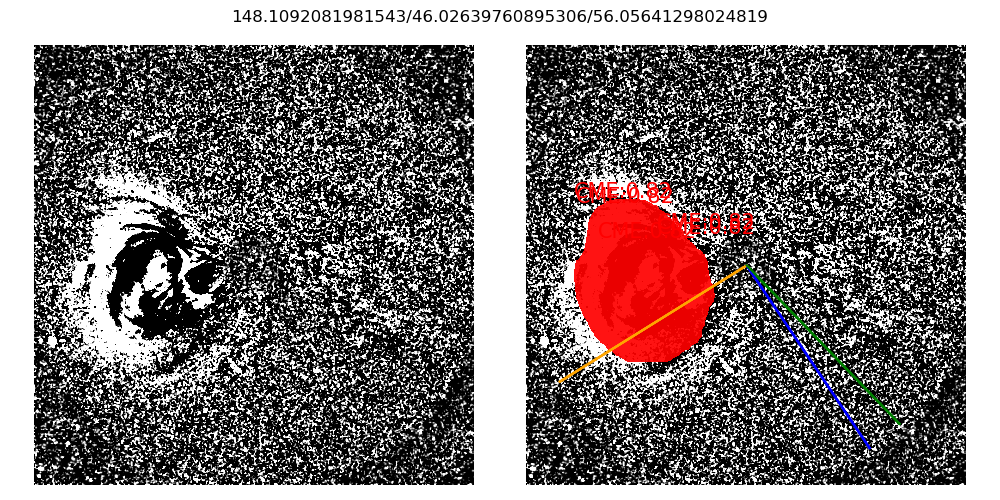
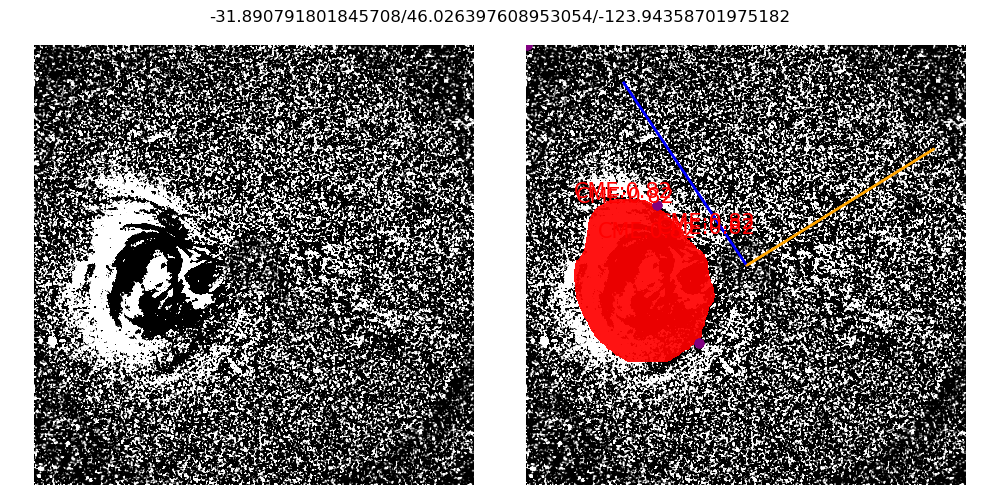
updated not working, the angles are not correct

diff --git a/nn/neural_cme_seg/applications/neural_cme_seg_kincat_stats.py b/nn/neural_cme_seg/applications/neural_cme_seg_kincat_stats.py
@@ -10,7 +10,7 @@ def read_fits(file_path,smooth_kernel=[0,0]):
         #img = gaussian_filter(img, sigma=smooth_kernel)
 
         # if smooth_kernel[0]!=0 and smooth_kernel[1]!=0: 
-        img = rebin(img, imageSize,operation='mean')
+        img = imrebin(img, imageSize,operation='mean')
         
         return img  
     except:
@@ -25,6 +25,7 @@ def rec2pol(mask,scores,labels,boxes,imsize):
     nans = np.full(imsize, np.nan)
     try:
         if boxes is not None:
+            nb=0
             for b in boxes:
                 if scores is not None:
                     scr = scores[0]
@@ -32,7 +33,7 @@ def rec2pol(mask,scores,labels,boxes,imsize):
                     scr = 0   
                 if scr > scr_threshold:             
                     masked = nans.copy()
-                    masked[:, :][mask[0] > mask_threshold] = 0
+                    masked[:, :][mask[nb] > mask_threshold] = nb   
                     
 
                     height, width = masked.shape
@@ -45,14 +46,16 @@ def rec2pol(mask,scores,labels,boxes,imsize):
                         for y in range(height):
                             value=masked[x,y]
                             if not np.isnan(value):
-                                pts.append([x,y])
-                                x_dist = (center_x-x)
-                                y_dist = (center_y-y)
+                                #breakpoint()
+                                pts.append([y,x])#the coordinates are written in the format (y,x)
+                                x_dist = (x-center_x)
+                                y_dist = (y-center_y)
                                 distance= math.sqrt(x_dist**2 + y_dist**2)
+                                
                                 angle=np.arctan2(y_dist,x_dist)
                                 
                                 pol_mask.append([distance,angle])
-                
+        
         return pol_mask,center,masked,pts
     except:
         print("A parameter its None")
@@ -80,8 +83,10 @@ def plot_to_png(ofile,pts,orig_img, masks, pol_mask, center,imsize, title=None, 
     max_ang = max(angles)
     idx_min = angles.index(min_ang)
     idx_max = angles.index(max_ang)
+
     pts_min=pts[idx_min]
     pts_max=pts[idx_max]
+    breakpoint()
     cpa_ang=(max_ang-min_ang)/2
     ang.append([min_ang,max_ang,cpa_ang])
     angulo_max=np.degrees(max_ang)
@@ -115,11 +120,12 @@ def plot_to_png(ofile,pts,orig_img, masks, pol_mask, center,imsize, title=None, 
                     masked[:, :][masks[i][nb] > mask_threshold] = nb              
                     axs[i+1].imshow(masked, cmap=cmap, alpha=0.4, vmin=0, vmax=len(color)-1) # add mask
        
-                    axs[i+1].plot(points[0][0], points[0][1], color='blue', label='Recta')
-                    axs[i+1].plot(points[1][0],points[1][1] , color='orange', label='Recta')
-                    axs[i+1].plot(points[2][0], points[2][1], color='green', label='Recta')
-                    axs[i+1].plot(pts_min[0],pts_min[1] , 'purple')
-                    axs[i+1].plot(pts_max[0],pts_max[1] , 'purple')
+                    axs[i+1].plot(points[0][0], points[0][1], color='blue', label='Recta min')
+                    axs[i+1].plot(points[1][0],points[1][1] , color='orange', label='Recta max')
+                    #axs[i+1].plot(points[2][0], points[2][1], color='green', label='Recta cpa')
+                    axs[i+1].scatter(0,0 , color='purple', marker='o')
+                    axs[i+1].scatter(pts_min[0],pts_min[1] , color='purple', marker='o')
+                    axs[i+1].scatter(pts_max[0],pts_max[1] , color='purple', marker='o')
                     # Ajustar límites del eje y aspecto
                     #axs[i+1].set_xlim(0, imsize[0])
                     #axs[i+1].set_ylim(0, imsize[1])
@@ -146,7 +152,7 @@ import matplotlib.pyplot as plt
 import numpy as np
 from astropy.io import fits
 sys.path.append(os.path.dirname(os.path.dirname(os.path.dirname(os.path.dirname(os.path.realpath(__file__))))))
-from ext_libs.rebin import rebin
+from ext_libs.rebin import imrebin
 
 
 data_dir="/gehme-gpu/projects/2020_gcs_with_ml/output/neural_cme_seg_v3/infer_neural_cme_seg_kincat/cor2_a/"

diff --git a/ext_libs/rebin.py b/ext_libs/rebin.py
@@ -2,7 +2,7 @@ import numpy as np
 
 #taken from bin_ndarray by https://gist.github.com/derricw/95eab740e1b08b78c03f
 
-def rebin(ndarray, new_shape, operation='sum'):
+def imrebin(ndarray, new_shape, operation='sum'):
     """
     Bins an ndarray in all axes based on the target shape, by summing or
         averaging.
